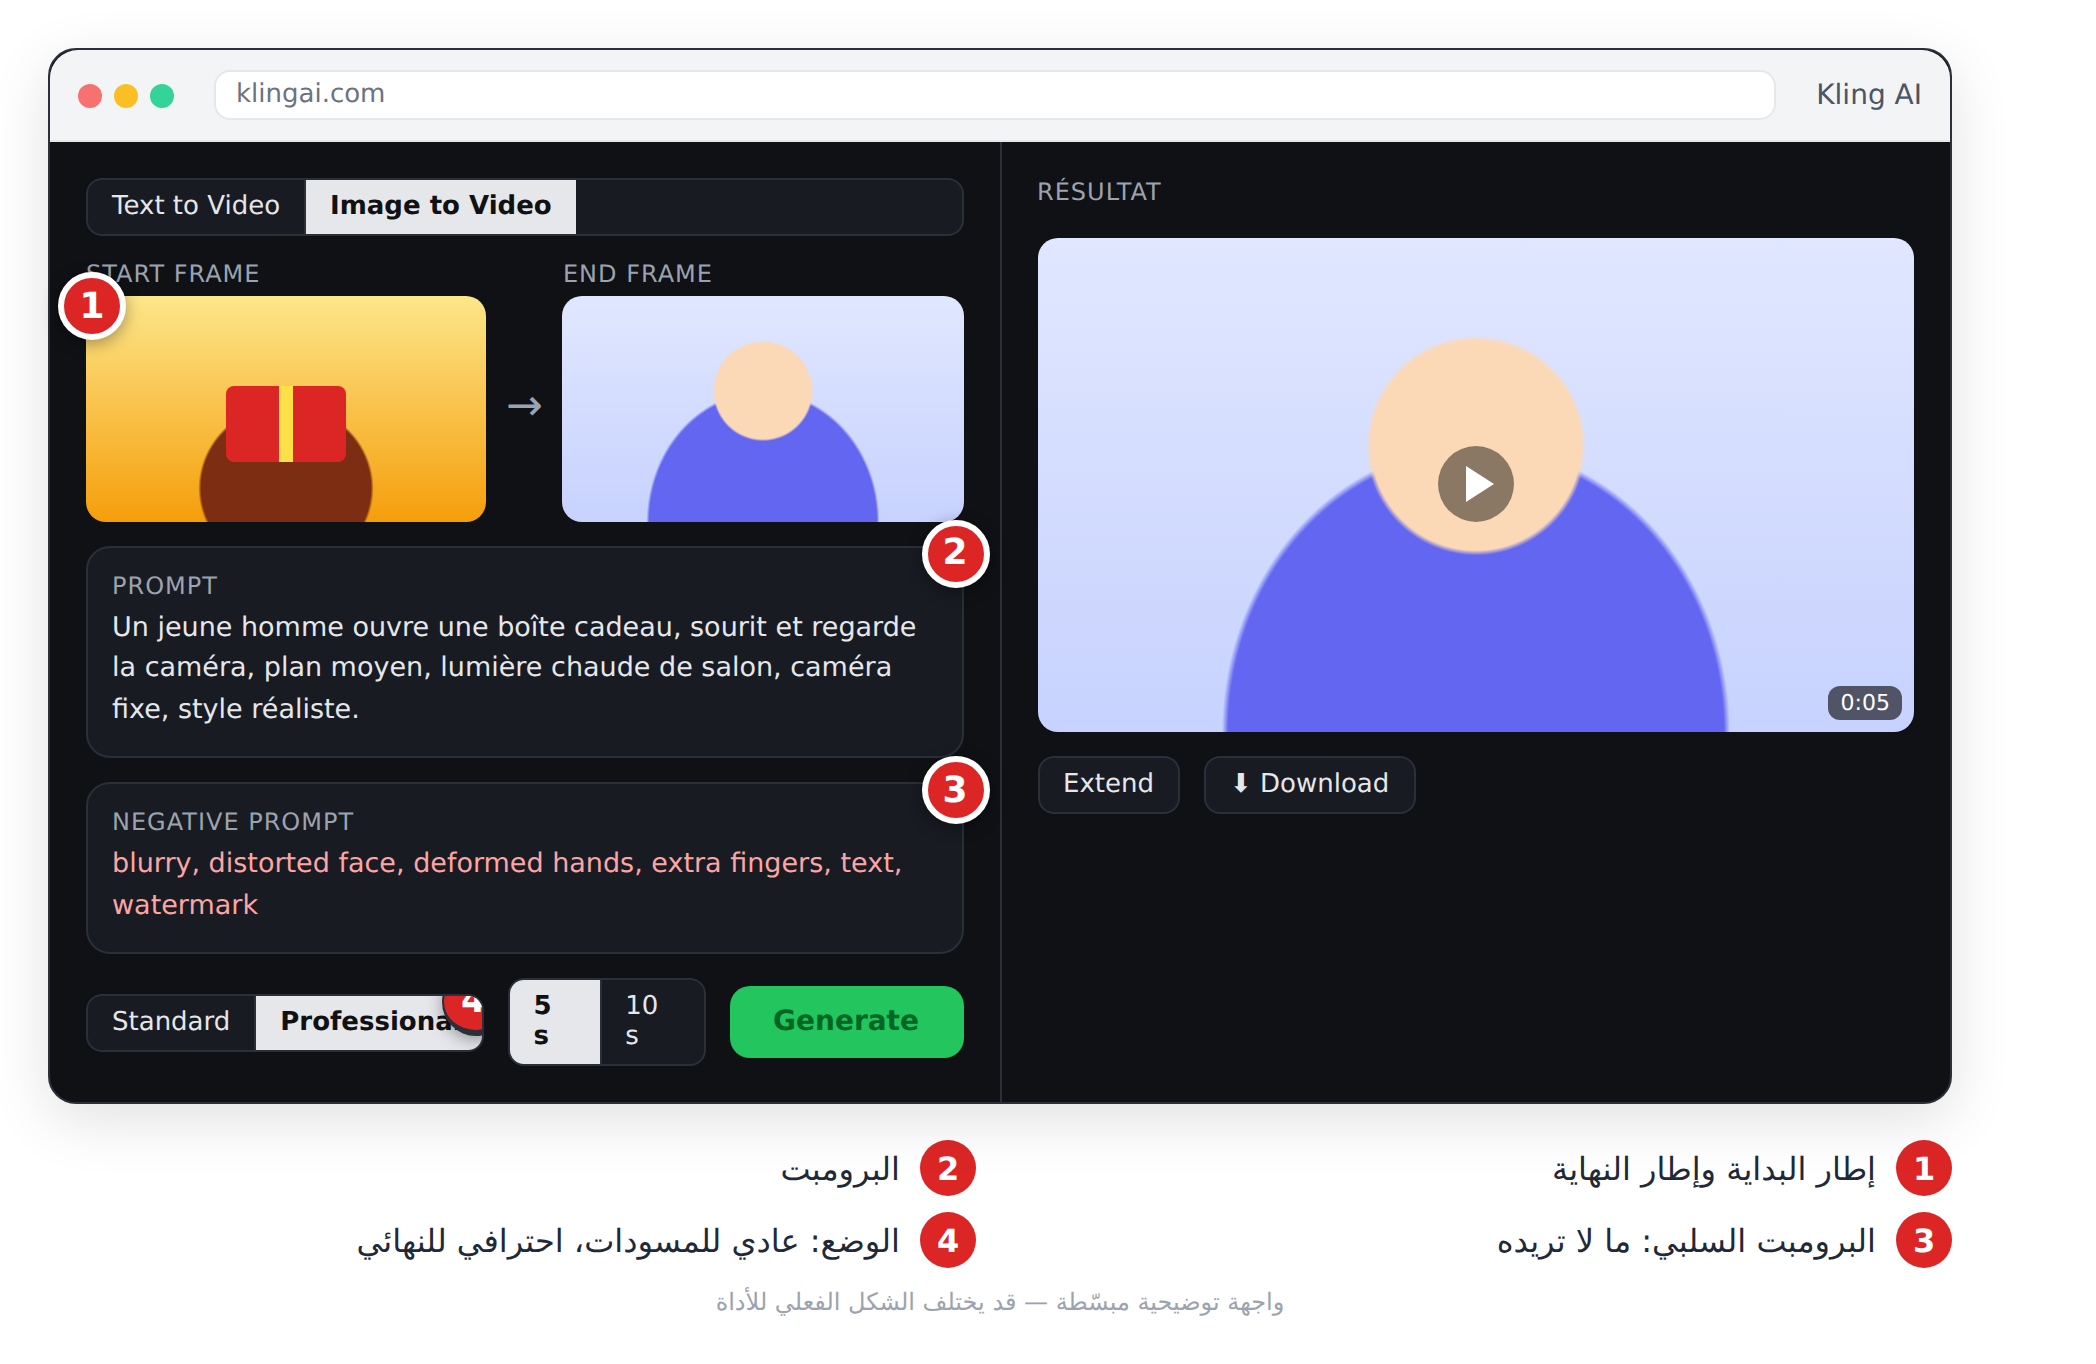
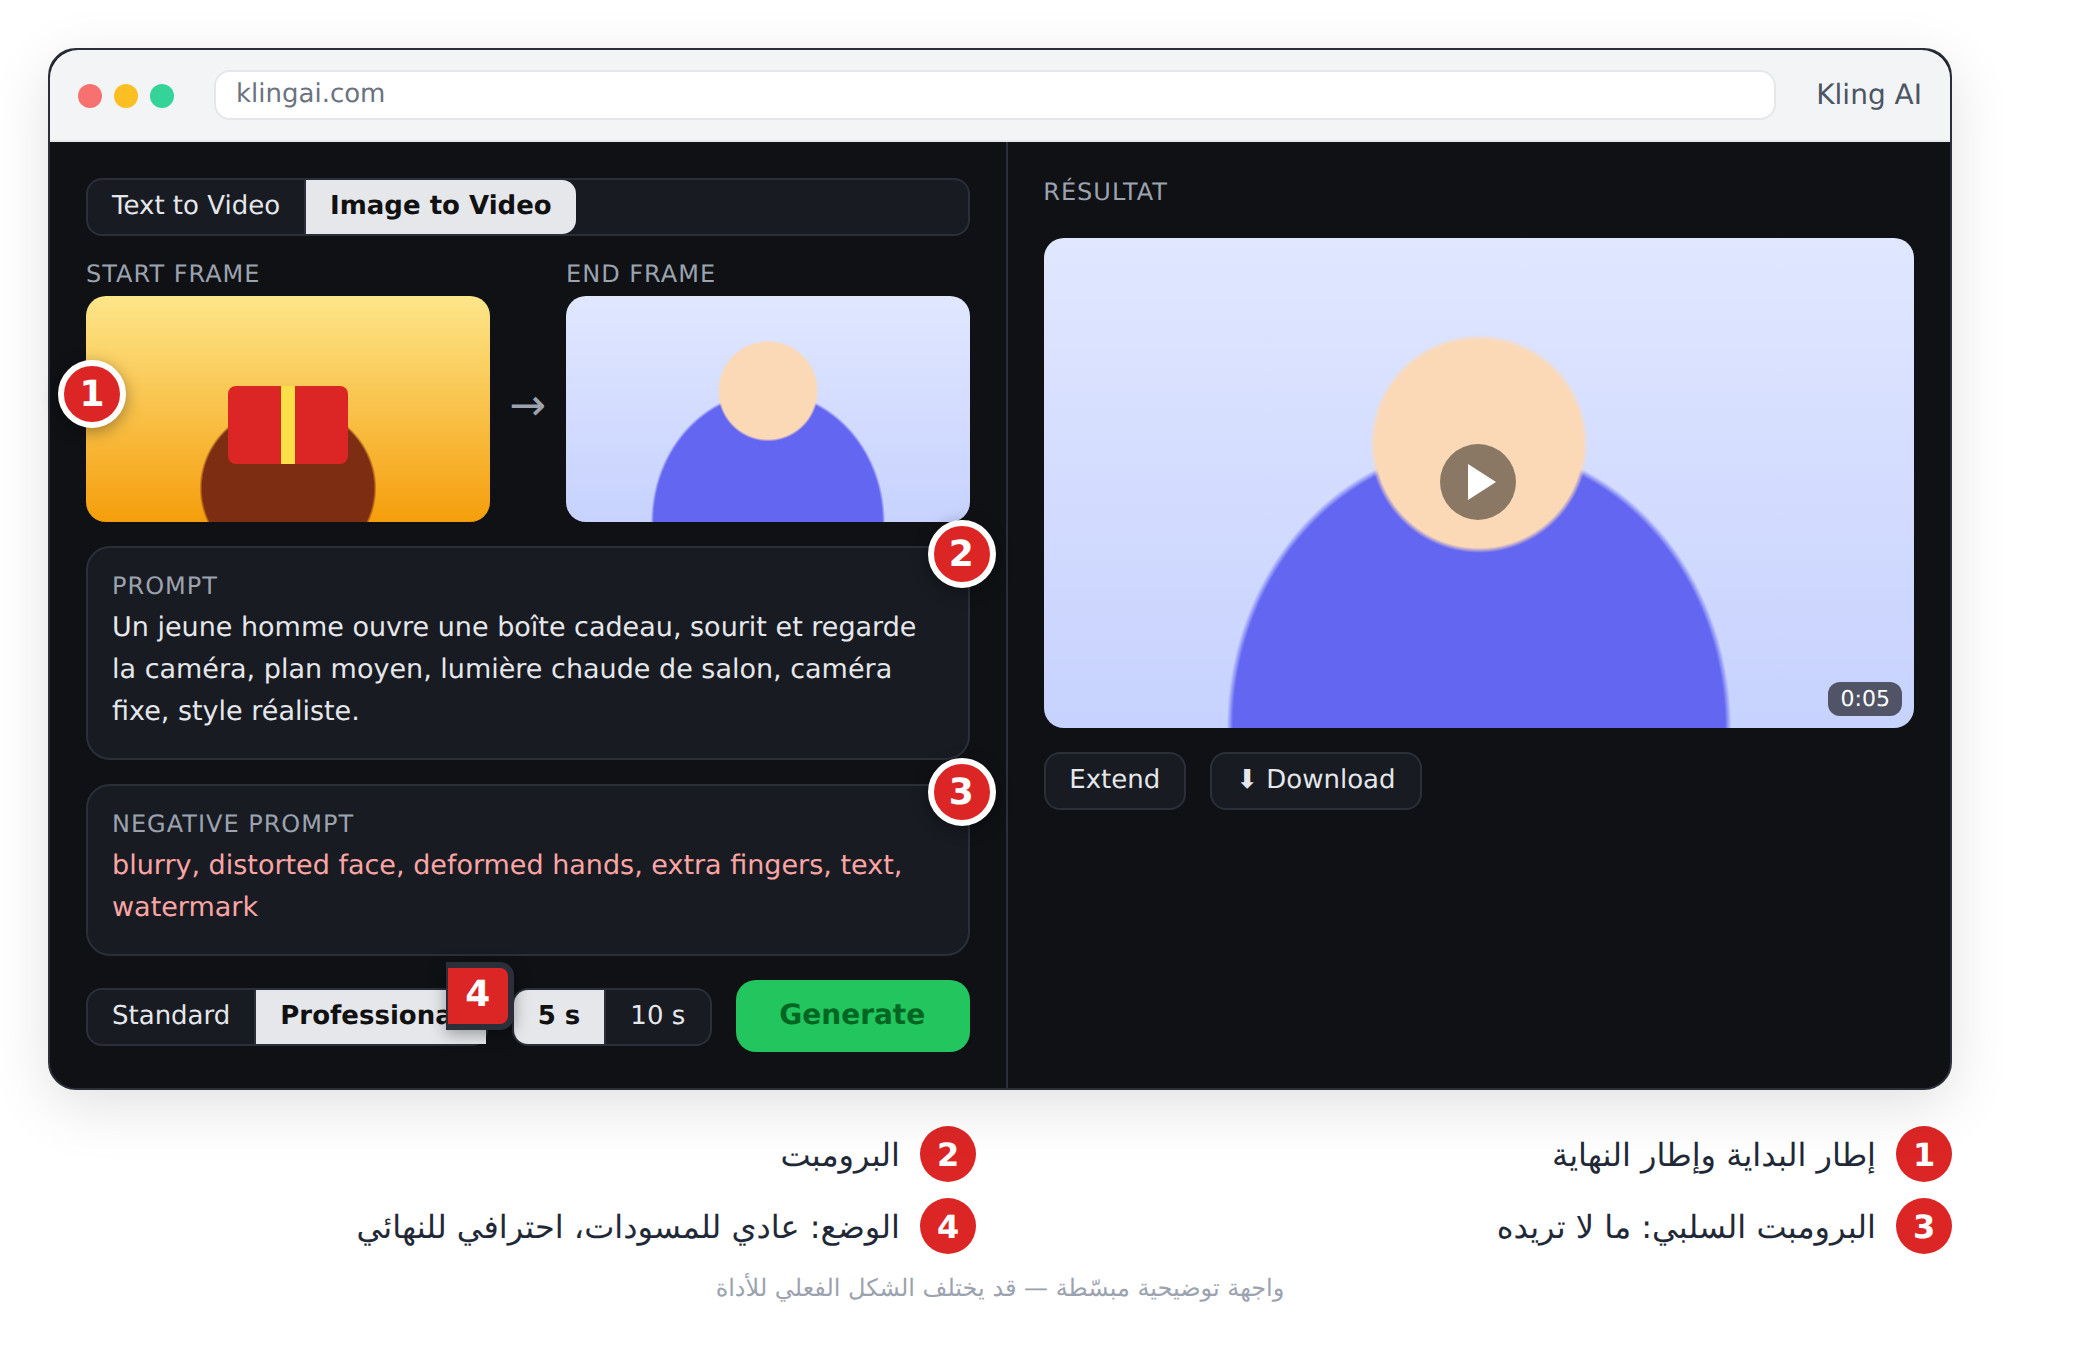
Shorter, illustrated AI book: work in progress
Claude-Session: https://claude.ai/code/session_0119EEHr9PMFFRyRJjMJGbmM

diff --git a/docs/book/mockups/ch15-ui-sora.html b/docs/book/mockups/ch15-ui-sora.html
@@ -1,7 +1,8 @@
 <!doctype html><html><head><meta charset="utf-8"><link rel="stylesheet" href="kit.css"><style>
 .rel{position:relative}
-.seg{display:inline-flex;border:1px solid #d1d5db;border-radius:8px;overflow:hidden;font-size:13px;background:#fff}
+.seg{display:inline-flex;border:1px solid #d1d5db;border-radius:8px;font-size:13px;background:#fff;position:relative;white-space:nowrap}
 .seg span{padding:6px 12px;border-left:1px solid #e5e7eb}.seg span:first-child{border-left:0}
+.seg span:first-child{border-radius:7px 0 0 7px}.seg span:last-child{border-radius:0 7px 7px 0}
 .seg span.on{background:#111827;color:#fff;font-weight:bold}
 .dd{display:inline-block;border:1px solid #d1d5db;border-radius:8px;padding:6px 12px;font-size:13px;background:#fff}
 .row{display:flex;gap:12px;align-items:center}
@@ -37,12 +38,12 @@
   <span class="m" style="top:10px;right:-14px">6</span>
  </div>
  <div class="panel rel" style="background:#181b22;padding:14px">
-  <div class="ptxt rel">Plan moyen, une étudiante tunisienne révise dans une bibliothèque ancienne, elle lève les yeux et sourit, lumière douce de fin d'après-midi, travelling avant lent, style réaliste. <span style="color:#a5b4fc">Son : pages qui tournent.</span><span class="m" style="top:-14px;left:-14px">1</span></div>
-  <div class="row" style="margin-top:14px;justify-content:space-between">
+  <div class="ptxt rel">Plan moyen, une étudiante tunisienne révise dans une bibliothèque ancienne, elle lève les yeux et sourit, lumière douce de fin d'après-midi, travelling avant lent, style réaliste. <span style="color:#a5b4fc">Son : pages qui tournent.</span><span class="m" style="top:-10px;left:-46px">1</span></div>
+  <div class="row" style="margin-top:22px;justify-content:space-between">
    <div class="row">
-    <span class="dd rel">＋ Image<span class="m" style="top:-14px;right:-14px">2</span></span>
-    <span class="seg rel"><span class="on">16:9</span><span>9:16</span><span>1:1</span><span class="m" style="top:-14px;right:-14px">3</span></span>
-    <span class="seg rel"><span>5 s</span><span class="on">10 s</span><span>15 s</span><span class="m" style="top:-14px;right:-14px">4</span></span>
+    <span class="dd rel">＋ Image<span class="m" style="top:-36px;right:10px">2</span></span>
+    <span class="seg rel"><span class="on">16:9</span><span>9:16</span><span>1:1</span><span class="m" style="top:-36px;right:40px">3</span></span>
+    <span class="seg rel"><span>5 s</span><span class="on">10 s</span><span>15 s</span><span class="m" style="top:-36px;right:40px">4</span></span>
     <span class="dd">720p ▾</span>
    </div>
    <span class="gen rel">Create ↑<span class="m" style="top:-14px;right:-14px">5</span></span>

diff --git a/docs/book/mockups/ch15-ui-kling.html b/docs/book/mockups/ch15-ui-kling.html
@@ -1,7 +1,8 @@
 <!doctype html><html><head><meta charset="utf-8"><link rel="stylesheet" href="kit.css"><style>
 .rel{position:relative}
-.seg{display:inline-flex;border:1px solid #d1d5db;border-radius:8px;overflow:hidden;font-size:13px;background:#fff}
+.seg{display:inline-flex;border:1px solid #d1d5db;border-radius:8px;font-size:13px;background:#fff;position:relative;white-space:nowrap}
 .seg span{padding:6px 12px;border-left:1px solid #e5e7eb}.seg span:first-child{border-left:0}
+.seg span:first-child{border-radius:7px 0 0 7px}.seg span:last-child{border-radius:0 7px 7px 0}
 .seg span.on{background:#111827;color:#fff;font-weight:bold}
 .dd{display:inline-block;border:1px solid #d1d5db;border-radius:8px;padding:6px 12px;font-size:13px;background:#fff}
 .row{display:flex;gap:12px;align-items:center}
@@ -35,7 +36,7 @@
    <div style="flex:1"><div class="lbl">Start frame</div><div class="thumb wide gift"></div></div>
    <div style="font-size:22px;color:#9ca3af;margin-top:16px">→</div>
    <div style="flex:1"><div class="lbl">End frame</div><div class="thumb wide sc-face"></div></div>
-   <span class="m" style="top:6px;left:-14px">1</span>
+   <span class="m" style="top:50px;left:-14px">1</span>
   </div>
   <div class="panel rel"><div class="lbl">Prompt</div><div class="ptxt">Un jeune homme ouvre une boîte cadeau, sourit et regarde la caméra, plan moyen, lumière chaude de salon, caméra fixe, style réaliste.</div><span class="m" style="top:-14px;right:-14px">2</span></div>
   <div class="panel rel"><div class="lbl">Negative prompt</div><div class="ptxt" style="color:#fca5a5">blurry, distorted face, deformed hands, extra fingers, text, watermark</div><span class="m" style="top:-14px;right:-14px">3</span></div>

diff --git a/docs/book/mockups/ch15-ui-runway.html b/docs/book/mockups/ch15-ui-runway.html
@@ -1,7 +1,8 @@
 <!doctype html><html><head><meta charset="utf-8"><link rel="stylesheet" href="kit.css"><style>
 .rel{position:relative}
-.seg{display:inline-flex;border:1px solid #d1d5db;border-radius:8px;overflow:hidden;font-size:13px;background:#fff}
+.seg{display:inline-flex;border:1px solid #d1d5db;border-radius:8px;font-size:13px;background:#fff;position:relative;white-space:nowrap}
 .seg span{padding:6px 12px;border-left:1px solid #e5e7eb}.seg span:first-child{border-left:0}
+.seg span:first-child{border-radius:7px 0 0 7px}.seg span:last-child{border-radius:0 7px 7px 0}
 .seg span.on{background:#111827;color:#fff;font-weight:bold}
 .dd{display:inline-block;border:1px solid #d1d5db;border-radius:8px;padding:6px 12px;font-size:13px;background:#fff}
 .row{display:flex;gap:12px;align-items:center}
@@ -45,9 +46,9 @@
    <div class="row rel" style="justify-content:space-between">
     <span class="seg"><span class="on">5 s</span><span>10 s</span></span>
     <span class="dd">16:9 ▾</span>
-    <span class="m" style="top:-14px;left:60px">4</span>
+    <span class="m" style="top:0px;left:110px">4</span>
    </div>
-   <div class="rel" style="text-align:right"><span class="gen">Generate</span><span class="m" style="top:-10px;right:110px">5</span></div>
+   <div style="text-align:right"><span class="gen rel">Generate<span class="m" style="top:-14px;right:-14px">5</span></span></div>
    <div class="row"><div class="thumb wide sc-face rel" style="width:150px"><div class="play"></div></div><div class="thumb wide sc-face rel" style="width:150px;filter:brightness(.85)"><div class="play"></div></div></div>
   </div>
  </div>

diff --git a/docs/book/mockups/ch13-ui-dossier-projet.html b/docs/book/mockups/ch13-ui-dossier-projet.html
@@ -1,7 +1,8 @@
 <!doctype html><html><head><meta charset="utf-8"><link rel="stylesheet" href="kit.css"><style>
 .rel{position:relative}
-.seg{display:inline-flex;border:1px solid #d1d5db;border-radius:8px;overflow:hidden;font-size:13px;background:#fff}
+.seg{display:inline-flex;border:1px solid #d1d5db;border-radius:8px;font-size:13px;background:#fff;position:relative;white-space:nowrap}
 .seg span{padding:6px 12px;border-left:1px solid #e5e7eb}.seg span:first-child{border-left:0}
+.seg span:first-child{border-radius:7px 0 0 7px}.seg span:last-child{border-radius:0 7px 7px 0}
 .seg span.on{background:#111827;color:#fff;font-weight:bold}
 .dd{display:inline-block;border:1px solid #d1d5db;border-radius:8px;padding:6px 12px;font-size:13px;background:#fff}
 .row{display:flex;gap:12px;align-items:center}

diff --git a/docs/book/mockups/ch13-ui-suivi-credits.html b/docs/book/mockups/ch13-ui-suivi-credits.html
@@ -1,7 +1,8 @@
 <!doctype html><html><head><meta charset="utf-8"><link rel="stylesheet" href="kit.css"><style>
 .rel{position:relative}
-.seg{display:inline-flex;border:1px solid #d1d5db;border-radius:8px;overflow:hidden;font-size:13px;background:#fff}
+.seg{display:inline-flex;border:1px solid #d1d5db;border-radius:8px;font-size:13px;background:#fff;position:relative;white-space:nowrap}
 .seg span{padding:6px 12px;border-left:1px solid #e5e7eb}.seg span:first-child{border-left:0}
+.seg span:first-child{border-radius:7px 0 0 7px}.seg span:last-child{border-radius:0 7px 7px 0}
 .seg span.on{background:#111827;color:#fff;font-weight:bold}
 .dd{display:inline-block;border:1px solid #d1d5db;border-radius:8px;padding:6px 12px;font-size:13px;background:#fff}
 .row{display:flex;gap:12px;align-items:center}

diff --git a/docs/book/mockups/ch13-ui-zone-securite.html b/docs/book/mockups/ch13-ui-zone-securite.html
@@ -1,7 +1,8 @@
 <!doctype html><html><head><meta charset="utf-8"><link rel="stylesheet" href="kit.css"><style>
 .rel{position:relative}
-.seg{display:inline-flex;border:1px solid #d1d5db;border-radius:8px;overflow:hidden;font-size:13px;background:#fff}
+.seg{display:inline-flex;border:1px solid #d1d5db;border-radius:8px;font-size:13px;background:#fff;position:relative;white-space:nowrap}
 .seg span{padding:6px 12px;border-left:1px solid #e5e7eb}.seg span:first-child{border-left:0}
+.seg span:first-child{border-radius:7px 0 0 7px}.seg span:last-child{border-radius:0 7px 7px 0}
 .seg span.on{background:#111827;color:#fff;font-weight:bold}
 .dd{display:inline-block;border:1px solid #d1d5db;border-radius:8px;padding:6px 12px;font-size:13px;background:#fff}
 .row{display:flex;gap:12px;align-items:center}

diff --git a/docs/book/mockups/ch14-ui-claude-storyboard.html b/docs/book/mockups/ch14-ui-claude-storyboard.html
@@ -1,7 +1,8 @@
 <!doctype html><html><head><meta charset="utf-8"><link rel="stylesheet" href="kit.css"><style>
 .rel{position:relative}
-.seg{display:inline-flex;border:1px solid #d1d5db;border-radius:8px;overflow:hidden;font-size:13px;background:#fff}
+.seg{display:inline-flex;border:1px solid #d1d5db;border-radius:8px;font-size:13px;background:#fff;position:relative;white-space:nowrap}
 .seg span{padding:6px 12px;border-left:1px solid #e5e7eb}.seg span:first-child{border-left:0}
+.seg span:first-child{border-radius:7px 0 0 7px}.seg span:last-child{border-radius:0 7px 7px 0}
 .seg span.on{background:#111827;color:#fff;font-weight:bold}
 .dd{display:inline-block;border:1px solid #d1d5db;border-radius:8px;padding:6px 12px;font-size:13px;background:#fff}
 .row{display:flex;gap:12px;align-items:center}

diff --git a/docs/book/mockups/ch14-ui-hook-telephone.html b/docs/book/mockups/ch14-ui-hook-telephone.html
@@ -1,7 +1,8 @@
 <!doctype html><html><head><meta charset="utf-8"><link rel="stylesheet" href="kit.css"><style>
 .rel{position:relative}
-.seg{display:inline-flex;border:1px solid #d1d5db;border-radius:8px;overflow:hidden;font-size:13px;background:#fff}
+.seg{display:inline-flex;border:1px solid #d1d5db;border-radius:8px;font-size:13px;background:#fff;position:relative;white-space:nowrap}
 .seg span{padding:6px 12px;border-left:1px solid #e5e7eb}.seg span:first-child{border-left:0}
+.seg span:first-child{border-radius:7px 0 0 7px}.seg span:last-child{border-radius:0 7px 7px 0}
 .seg span.on{background:#111827;color:#fff;font-weight:bold}
 .dd{display:inline-block;border:1px solid #d1d5db;border-radius:8px;padding:6px 12px;font-size:13px;background:#fff}
 .row{display:flex;gap:12px;align-items:center}

diff --git a/docs/book/mockups/ch14-ui-storyboard-rempli.html b/docs/book/mockups/ch14-ui-storyboard-rempli.html
@@ -1,7 +1,8 @@
 <!doctype html><html><head><meta charset="utf-8"><link rel="stylesheet" href="kit.css"><style>
 .rel{position:relative}
-.seg{display:inline-flex;border:1px solid #d1d5db;border-radius:8px;overflow:hidden;font-size:13px;background:#fff}
+.seg{display:inline-flex;border:1px solid #d1d5db;border-radius:8px;font-size:13px;background:#fff;position:relative;white-space:nowrap}
 .seg span{padding:6px 12px;border-left:1px solid #e5e7eb}.seg span:first-child{border-left:0}
+.seg span:first-child{border-radius:7px 0 0 7px}.seg span:last-child{border-radius:0 7px 7px 0}
 .seg span.on{background:#111827;color:#fff;font-weight:bold}
 .dd{display:inline-block;border:1px solid #d1d5db;border-radius:8px;padding:6px 12px;font-size:13px;background:#fff}
 .row{display:flex;gap:12px;align-items:center}

diff --git a/docs/book/mockups/ch15-ui-fiche-personnage.html b/docs/book/mockups/ch15-ui-fiche-personnage.html
@@ -1,7 +1,8 @@
 <!doctype html><html><head><meta charset="utf-8"><link rel="stylesheet" href="kit.css"><style>
 .rel{position:relative}
-.seg{display:inline-flex;border:1px solid #d1d5db;border-radius:8px;overflow:hidden;font-size:13px;background:#fff}
+.seg{display:inline-flex;border:1px solid #d1d5db;border-radius:8px;font-size:13px;background:#fff;position:relative;white-space:nowrap}
 .seg span{padding:6px 12px;border-left:1px solid #e5e7eb}.seg span:first-child{border-left:0}
+.seg span:first-child{border-radius:7px 0 0 7px}.seg span:last-child{border-radius:0 7px 7px 0}
 .seg span.on{background:#111827;color:#fff;font-weight:bold}
 .dd{display:inline-block;border:1px solid #d1d5db;border-radius:8px;padding:6px 12px;font-size:13px;background:#fff}
 .row{display:flex;gap:12px;align-items:center}

diff --git a/docs/book/mockups/ch15-ui-hailuo.html b/docs/book/mockups/ch15-ui-hailuo.html
@@ -1,7 +1,8 @@
 <!doctype html><html><head><meta charset="utf-8"><link rel="stylesheet" href="kit.css"><style>
 .rel{position:relative}
-.seg{display:inline-flex;border:1px solid #d1d5db;border-radius:8px;overflow:hidden;font-size:13px;background:#fff}
+.seg{display:inline-flex;border:1px solid #d1d5db;border-radius:8px;font-size:13px;background:#fff;position:relative;white-space:nowrap}
 .seg span{padding:6px 12px;border-left:1px solid #e5e7eb}.seg span:first-child{border-left:0}
+.seg span:first-child{border-radius:7px 0 0 7px}.seg span:last-child{border-radius:0 7px 7px 0}
 .seg span.on{background:#111827;color:#fff;font-weight:bold}
 .dd{display:inline-block;border:1px solid #d1d5db;border-radius:8px;padding:6px 12px;font-size:13px;background:#fff}
 .row{display:flex;gap:12px;align-items:center}

diff --git a/docs/book/mockups/ch15-ui-luma.html b/docs/book/mockups/ch15-ui-luma.html
@@ -1,7 +1,8 @@
 <!doctype html><html><head><meta charset="utf-8"><link rel="stylesheet" href="kit.css"><style>
 .rel{position:relative}
-.seg{display:inline-flex;border:1px solid #d1d5db;border-radius:8px;overflow:hidden;font-size:13px;background:#fff}
+.seg{display:inline-flex;border:1px solid #d1d5db;border-radius:8px;font-size:13px;background:#fff;position:relative;white-space:nowrap}
 .seg span{padding:6px 12px;border-left:1px solid #e5e7eb}.seg span:first-child{border-left:0}
+.seg span:first-child{border-radius:7px 0 0 7px}.seg span:last-child{border-radius:0 7px 7px 0}
 .seg span.on{background:#111827;color:#fff;font-weight:bold}
 .dd{display:inline-block;border:1px solid #d1d5db;border-radius:8px;padding:6px 12px;font-size:13px;background:#fff}
 .row{display:flex;gap:12px;align-items:center}
